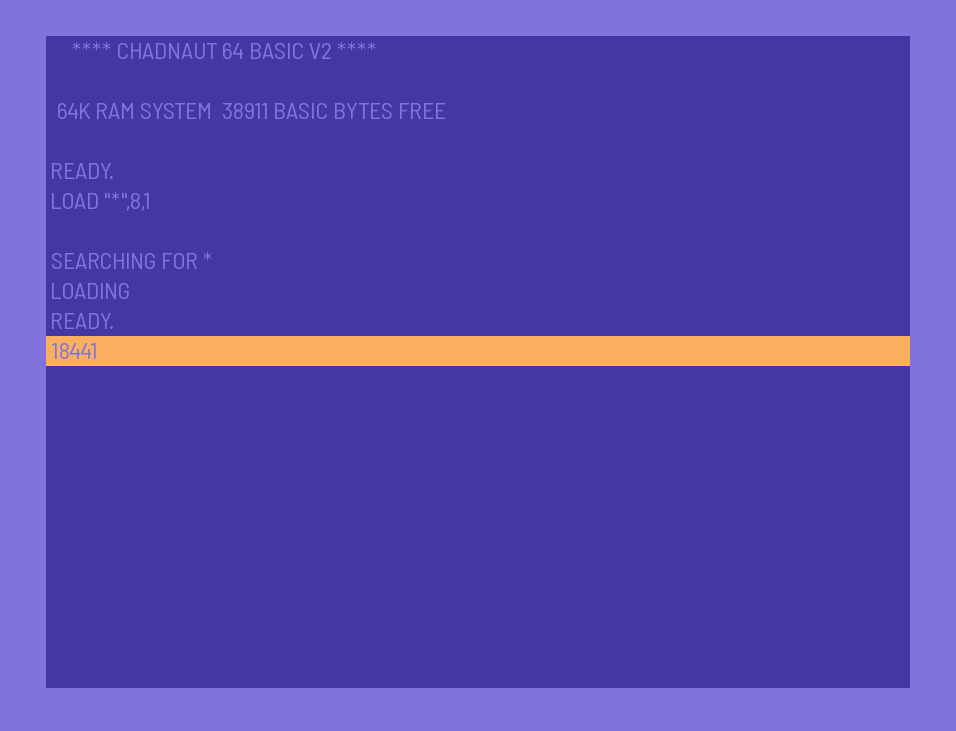
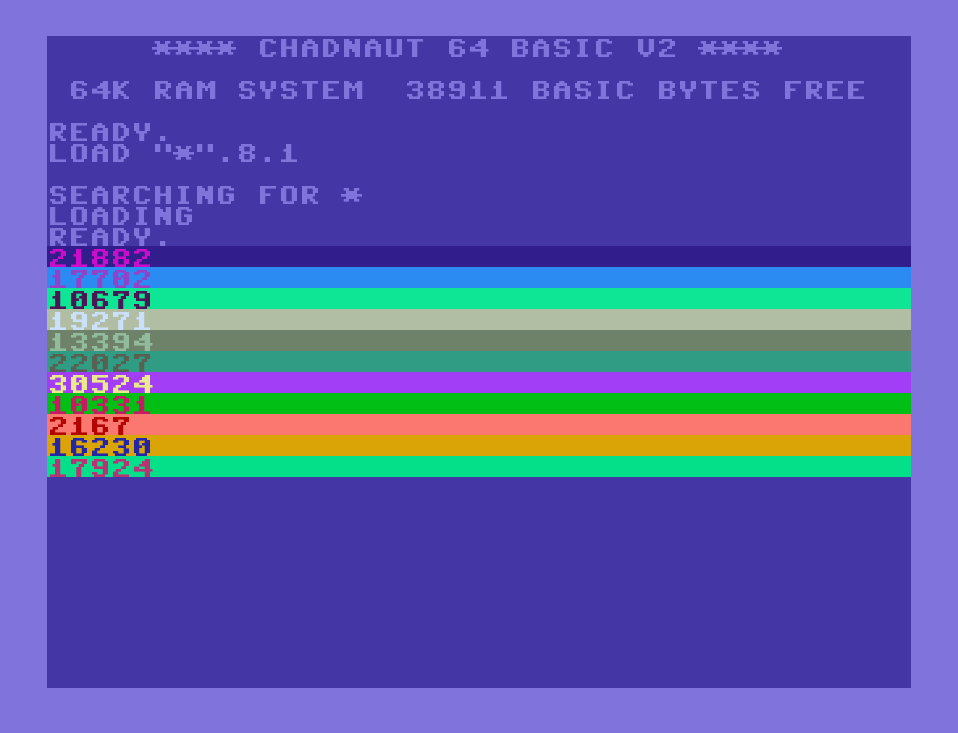
Console update

diff --git a/modules/console/README.md b/modules/console/README.md
@@ -1,7 +1,7 @@
 # Console
 
 > Coloured message list with animated typing  
-> Version 0.8.0  
+> Version 0.9.0  
 > Chadnaut 2024  
 > https://github.com/Chadnaut/Attract-Mode-Modules
 
@@ -20,11 +20,11 @@ fe.load_module("console");
 ::console.line_delay = 100; 
 ::console.line_wait = true;
 
-::console.print("Success", [0, 255, 0]); // with text colour
+::console.print("Success", { text_rgb = [0, 255, 0] }); // with text colour
 ::console.print("Info");
 ::console.print({ a = 1, b = 2.0 }); // print objects
 ::console.print();
-::console.print("Failure", null, [200, 0, 0, 255]); // with bg colour
+::console.print("Failure", { bg_rgb = [200, 0, 0, 255] }); // with bg colour
 ```
 
 ![Example](example.png)\
@@ -38,7 +38,9 @@ fe.load_module("console");
 - `height` *int* - Get/set<sup>1</sup> height of console.
 - `font` *string* - Get/set<sup>1</sup> console font.
 - `char_size` *int* - Get/set<sup>1</sup> console font size.
+- `char_space` *int* - Get/set<sup>1</sup> console char space.
 - `line_space` *int* - Get/set<sup>1</sup> console font line space.
+- `align` *Align* - Get/set text alignment.
 - `lines` *int* - Get total number of printed lines.
 - `lines_total` *int* - Get total number of lines that fit in the console.
 - `text_red` *int* - Get/set red colour level of console text.
@@ -59,12 +61,21 @@ Note<sup>1</sup> - Cannot be changed once messages are printed.
 
 ## Functions
 
-- `print(message, text_rgb?, bg_rgb?)` - Add message to the console, rgb = [r,g,b].
+- `print(message, options?)` - Add message to the console
 - `clear()` - Clear all messages.
 - `flush()` - Output all pending (delayed) messages.
 - `get_message(index)` - Return message for line.
 - `set_message(index, message)` - Set message for line.
-- `get_text_rgb(index?)` - Get text_rgb for line, or default.
-- `set_text_rgb(index?, r, g, b)` - Set text_rgb for line, or default.
-- `get_bg_rgb(index?)` - Set bg_rgb for line, or default.
-- `set_bg_rgb(index?, r, g, b)` - Get bg_rgb for line, or default.
+- `get_options(index)` - Return options for line.
+- `set_options(index, options)` - Set options for line.
+- `set_text_rgb(r, g, b)` - Set defaut text_rgb.
+- `set_bg_rgb(r, g, b)` - Set default bg_rgb.
+
+Where `options` are:
+- `text_rgb` *[r,g,b]* - Text colour
+- `bg_rgb` *[r,g,b]* - Background color
+- `align` *Align* - Alignment
+
+# Further Reading
+
+- [C64 TrueType (TTF) Fonts](https://style64.org/c64-truetype)

diff --git a/modules/stringify/README.md b/modules/stringify/README.md
@@ -1,7 +1,7 @@
 # Stringify
 
 > JSON-like value stringification  
-> Version 0.1.0  
+> Version 0.1.1  
 > Chadnaut 2024  
 > https://github.com/Chadnaut/Attract-Mode-Modules
 
